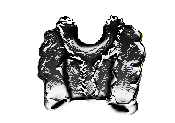
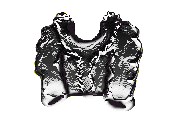
Show tabboz clothes in main window and update as needed

Changed region(s): [[0.1714, 0.0976, 0.8571, 0.9512]]

diff --git a/gui/GUITabboz.cpp b/gui/GUITabboz.cpp
@@ -348,6 +348,14 @@ win_testbed->show();
 win_principale->deactivate();
 }
 
+Fl_Box *main_fig_scarpe=(Fl_Box *)0;
+
+Fl_Box *main_fig_panta=(Fl_Box *)0;
+
+Fl_Box *main_fig_giub=(Fl_Box *)0;
+
+Fl_Box *main_fig_testa=(Fl_Box *)0;
+
 Fl_Double_Window* GUITabboz() {
   { win_principale = new Fl_Double_Window(475, 450, "Tabboz Simulator Next Generation!");
     win_principale->color(FL_LIGHT3);
@@ -435,7 +443,7 @@ Fl_Double_Window* GUITabboz() {
       } // Fl_Button* o
       o->end();
     } // Fl_Group* o
-    { main_box_figurino = new Fl_Box(10, 30, 140, 280, "Immagine Tabboz");
+    { main_box_figurino = new Fl_Box(10, 30, 140, 280);
       main_box_figurino->box(FL_SHADOW_BOX);
     } // Fl_Box* main_box_figurino
     { Fl_Box* o = main_box_nome = new Fl_Box(11, 10, 135, 20, "Nome Tabbozzo");
@@ -530,6 +538,14 @@ Fl_Double_Window* GUITabboz() {
     { Fl_Button* o = new Fl_Button(445, 410, 20, 25, "T");
       o->callback((Fl_Callback*)cb_T);
     } // Fl_Button* o
+    { main_fig_scarpe = new Fl_Box(45, 245, 60, 65);
+    } // Fl_Box* main_fig_scarpe
+    { main_fig_panta = new Fl_Box(20, 127, 110, 150);
+    } // Fl_Box* main_fig_panta
+    { main_fig_giub = new Fl_Box(43, 80, 60, 65);
+    } // Fl_Box* main_fig_giub
+    { main_fig_testa = new Fl_Box(42, 36, 60, 65);
+    } // Fl_Box* main_fig_testa
     AggiornaPrincipale();
     win_principale->size_range(475, 450, 475, 450);
     win_principale->end();

diff --git a/zarrosim.cpp b/zarrosim.cpp
@@ -1383,6 +1383,10 @@ void AggiornaPrincipale()
         main_valbox_stipendio->activate();
     else
         main_valbox_stipendio->deactivate();
+    main_fig_scarpe->image(ImgScarpe[current_scarpe]);   // Disegna immagine del tabbozzo/a
+    main_fig_panta->image(ImgPantaloni[current_pantaloni]);
+    main_fig_giub->image(ImgGiubbotto[current_gibbotto]);
+    main_fig_testa->image(ImgTesta[current_testa]);
     win_principale->redraw();
 }
 

diff --git a/gui/GUITabboz.h b/gui/GUITabboz.h
@@ -23,6 +23,10 @@ extern Fl_Value_Output *main_valbox_stipendio;
 extern Fl_Value_Output *main_valbox_rep;
 extern Fl_Value_Output *main_valbox_fama;
 extern Fl_Value_Output *main_valbox_studio;
+extern Fl_Box *main_fig_scarpe;
+extern Fl_Box *main_fig_panta;
+extern Fl_Box *main_fig_giub;
+extern Fl_Box *main_fig_testa;
 Fl_Double_Window* GUITabboz();
 extern Fl_Menu_Item menu_[];
 #endif
